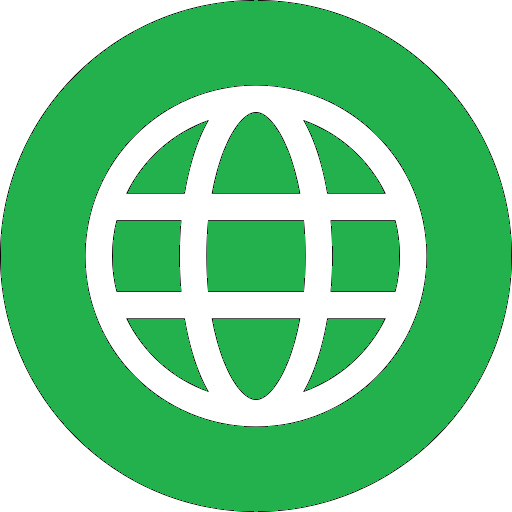
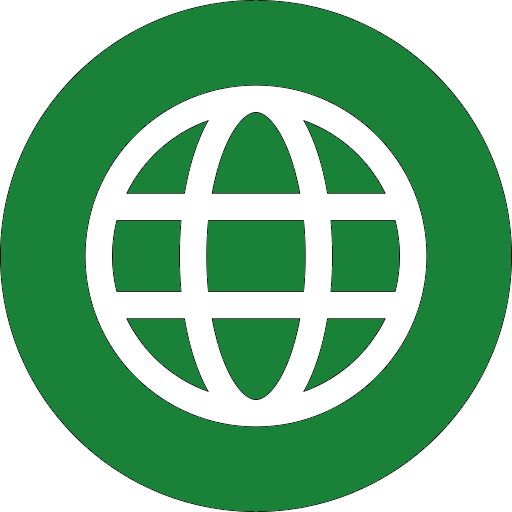
Issue #6: Create testimonials component

diff --git a/src/pages/Contact.vue b/src/pages/Contact.vue
@@ -1,35 +1,42 @@
 <template>
     <MiniBanner title="GET IN CONTACT" />
-    <div class="flex flex-row py-20 px-80 gap-40">
-        <div>
-            <h2 class="font-semibold text-3xl">Get In Touch</h2>
-            <form class="flex flex-col gap-5">
-                <div class="flex flex-row gap-10">
-                    <div class="flex flex-col">
+    <div class="flex flex-row flex-wrap py-20 justify-left sm:justify-center gap-10">
+        <div class="flex flex-col">
+            <h2 class="font-semibold text-2xl px-2">Get In Touch</h2>
+            <form class="flex flex-col flex-wrap gap-5 px-2">
+                <div class="flex flex-row flex-wrap sm:gap-10">
+                    <div class="flex flex-col grow">
                         <label class="font-thin py-3">First name</label>
-                        <input type="text" placeholder="Your first name" class="border-2 rounded-md p-4"></input>
+                        <input type="text" placeholder="Your first name"
+                            class="border-2 border-green-700 rounded-md p-4"></input>
                     </div>
-                    <div class="flex flex-col">
+                    <div class="flex flex-col grow">
                         <label class="font-thin py-3">Last name</label>
-                        <input type="text" placeholder="Your last name" class="border-2 rounded-md p-4"></input>
+                        <input type="text" placeholder="Your last name"
+                            class="border-2 border-green-700 rounded-md p-4"></input>
                     </div>
                 </div>
-                <div class="flex flex-col">
+                <div class="flex flex-col flex-wrap">
                     <label class="font-thin py-3">Email</label>
-                    <input type="email" placeholder="Your email address" class="border-2 rounded-md p-4"></input>
+                    <input type="email" placeholder="Your email address"
+                        class="border-2 border-green-700 rounded-md p-4"></input>
                 </div>
-                <div class="flex flex-col">
+                <div class="flex flex-col flex-wrap">
                     <label class="font-thin py-3">Subject</label>
-                    <input type="text" placeholder="Your subject of this message" class="border-2 rounded-md p-4"></input>
+                    <input type="text" placeholder="Your subject of this message"
+                        class="border-2 border-green-700 rounded-md p-4"></input>
                 </div>
-                <div class="flex flex-col">
+                <div class="flex flex-col flex-wrap">
                     <label class="font-thin py-3">Message</label>
-                    <textarea type="text" placeholder="Write us something" class="border-2 rounded-md p-4" cols="30" rows="10"></textarea>
+                    <textarea type="text" placeholder="Write us something"
+                        class="border-2 border-green-700 rounded-md p-4" cols="30" rows="10"></textarea>
                 </div>
-                <button type="submit" class=" bg-green-600 text-white rounded-md p-3 cursor-pointer w-40"> Send Message </button>
+                <button type="submit" class=" bg-green-600 text-white rounded-md p-3 cursor-pointer w-40">
+                    Send Message
+                </button>
             </form>
         </div>
-        <div class="flex flex-col gap-20">
+        <div class="flex flex-col gap-20 px-2">
             <div class="flex flex-col">
                 <h3 class="font-semibold text-2xl"> USA Office </h3>
                 <ul>
@@ -78,7 +85,6 @@
 
 <script setup lang="ts">
 import MiniBanner from '../components/sections/layout/MiniBanner.vue';
-
 </script>
 
 <style scoped></style>

diff --git a/src/components/sections/home/Testimonials.vue b/src/components/sections/home/Testimonials.vue
@@ -1,0 +1,67 @@
+<template>
+    <div class="bg-gray-200 items-center py-10">
+        <div class="font-bold text-3xl text-center py-5"> Testimonial </div>
+        <v-carousel :show-arrows="false" class="testimony-carousel">
+            <v-carousel-item v-for="(testimonial, i) in testimonials" :key="i">
+                <div class="flex flex-col items-center">
+                    <div class="py-10"></div>
+                    <img :src="testimonial.icon" class="rounded-full" width="80"></img>
+                    <div class="font-bold text-gray-700 text-center">
+                        {{ testimonial.source }}
+                        <a :href="testimonial.sourceLink" class="text-green-700 hover:underline text-center">
+                            {{ testimonial.sourceName }} </a>
+                    </div>
+                    <div class="text-center max-w-sm font-thin py-10"> "{{ testimonial.text }}" </div>
+                </div>
+            </v-carousel-item>
+        </v-carousel>
+    </div>
+</template>
+
+<script setup lang="ts">
+const testimonials = [
+    {
+        icon: "/src/assets/person_1.jpg",
+        source: "JEAN DOE, VIA",
+        sourceName: "TWITTER",
+        sourceLink: "http://x.com",
+        text: "Far far away, behind the word mountains, far from the countries Vokalia and Consonantia, there live the blind texts. Separated they live in Bookmarksgrove right at the coast of the Semantics, a large language ocean."
+    },
+    {
+        icon: "/src/assets/person_2.jpg",
+        source: "JOHN DOE, VIA",
+        sourceName: "TWITTER",
+        sourceLink: "http://x.com",
+        text: "Separated they live in Bookmarksgrove right at the coast of the Semantics, a large language ocean."
+    },
+    {
+        icon: "/src/assets/person_3.jpg",
+        source: "JOHN DOE, VIA",
+        sourceName: "TWITTER",
+        sourceLink: "http://x.com",
+        text: "Far from the countries Vokalia and Consonantia, there live the blind texts. Separated they live in Bookmarksgrove right at the coast of the Semantics, a large language ocean."
+    }
+]
+</script>
+
+<style scoped>
+.testimony-carousel :deep(.v-btn--variant-text .v-btn__overlay) {
+    background: transparent;
+}
+
+.testimony-carousel :deep(.v-btn--active) {
+    color: #097749 !important;
+}
+
+.testimony-carousel :deep(.v-carousel__controls) {
+    background: transparent;
+}
+
+.testimony-carousel :deep(.v-carousel__controls__item .v-icon) {
+    opacity: 1;
+}
+
+.testimony-carousel :deep(.v-btn--icon) {
+    color: rgb(95, 95, 95);
+}
+</style>

diff --git a/src/components/sections/layout/Navbar.vue b/src/components/sections/layout/Navbar.vue
@@ -3,7 +3,7 @@
         <a class="text-xl text-white font-bold" href="/"> GREATNESS. </a>
 
         <!-- Lista de items em telas grandes -->
-        <ul id="navbar_right" class="flex flex-row gap-10 text-white">
+        <ul id="navbar_right" class="hidden md:flex flex-row gap-10 text-white">
             <li v-for="link in links">
                 <!-- Se link é o atual, deixa com opacidade normal -->
                 <div v-if="link.link == active">
@@ -45,7 +45,7 @@
         </ul>
 
         <!-- Menu hamburguer em telas pequenas controlado por uma var reativa -->
-        <div v-show="hamburguerState" id="ham_menu" class="hover:cursor-pointer" @click="showSidebar">
+        <div v-show="hamburguerState" id="ham_menu" class="block md:hidden hover:cursor-pointer" @click="showSidebar">
             <img src="/src/assets/hamburger.png" class="w-8">
         </div>
 
@@ -55,7 +55,7 @@
 
         <!-- Sidebar ao clicar no hamburguer guiada por uma var reativa -->
         <transition name="slide">
-            <div v-show="sidebarState" id="sidebar"
+            <div v-if="sidebarState" id="sidebar"
                 class="flex flex-col items-end px-8 py-5 bg-black fixed right-0 top-0 h-full w-60 z-1"
                 @click="showHamburguer">
 
@@ -70,7 +70,7 @@
 
                             <!-- Sublink list -->
                             <transition name="dropdown">
-                                <ul v-show="link.sublinks && itemSelected == link.name" class="px-5">
+                                <ul v-if="link.sublinks && itemSelected == link.name" class="px-5">
                                     <li v-for="subl in link.sublinks">
                                         <a :href="subl.sublink"
                                             class="opacity-40 hover:opacity-100 transition-opacity duration-500">
@@ -204,23 +204,5 @@ function showHamburguer() {
     max-height: 500px;
     /* valor alto suficiente para o conteúdo */
     opacity: 1;
-}
-
-@media screen and (min-width: 0px) and (max-width:800px) {
-    #navbar_right {
-        display: none;
-    }
-}
-
-@media screen and (min-width: 800px) and (max-width:1920px) {
-    #ham_menu {
-        display: none;
-    }
-}
-
-@media screen and (min-width: 800px) and (max-width:1920px) {
-    #sidebar {
-        display: none;
-    }
 }
 </style>

diff --git a/src/components/sections/home/Banner.vue b/src/components/sections/home/Banner.vue
@@ -1,10 +1,13 @@
 <template>
     <div class="banner flex flex-col items-center py-70 gap-5 h-200 w-full">
-        <div class="text-white text-7xl font-thin"> GREATNESS TEMPLATE </div>
+        <div class="text-white text-5xl md:text-7xl font-thin text-center wrap-anywhere"> GREATNESS TEMPLATE </div>
         <div class="text-white text-2xl font-thin"> MADE BY gstv0 </div>
         <div class="flex flex-row gap-10">
-            <button class="bg-green-600 hover:cursor-pointer rounded-md p-5 text-white hover:brightness-125"> Get Started </button>
-            <button class="text-white rounded-md border-1 border-white p-5 hover:cursor-pointer hover:bg-white hover:text-black transition-colors duration-300 "> Download </button>
+            <button class="bg-green-600 hover:cursor-pointer rounded-md p-5 text-white hover:brightness-125"> Get
+                Started </button>
+            <button
+                class="text-white rounded-md border-1 border-white p-5 hover:cursor-pointer hover:bg-white hover:text-black transition-colors duration-300 ">
+                Download </button>
         </div>
     </div>
 </template>

diff --git a/src/components/sections/layout/Footer.vue b/src/components/sections/layout/Footer.vue
@@ -1,12 +1,12 @@
 <template>
     <footer class="flex flex-col flex-wrap gap-20 py-20 items-center ml-15 -mr-1.5">
-        <div class="w-full max-w-6xl flex flex-row flex-wrap sm:gap-35 gap-x-35 gap-y-10">
+        <div class="w-full max-w-6xl grid grid-cols-2 sm:grid-cols-3 md:grid-cols-6 sm:gap-35 gap-y-10">
             <div v-for="(column, index) in links" :key="index" class="flex flex-col gap-2 sm:w-auto sm:items-start">
                 <a v-for="(link, subindex) in column" :key="subindex" :href="link.link" class="hover:underline">
                     {{ link.name }} </a>
             </div>
         </div>
-        <div class=" w-full max-w-6xl grid grid-cols-1 sm:grid-cols-2 gap-4">
+        <div class=" w-full max-w-6xl grid grid-cols-1 sm:grid-cols-2 gap-4 -ml-15 sm:ml-0">
             <div class="font-thin text-gray-600 md:text-left text-center">
                 © 2016 Free HTML5. All Rights Reserved. <br>
                 Designed by
@@ -29,6 +29,7 @@
                 </a>
             </div>
         </div>
+        <div class="py-5"></div>
     </footer>
 </template>
 

diff --git a/src/main.ts b/src/main.ts
@@ -1,12 +1,35 @@
-import { createApp } from 'vue'
-import App from './App.vue'
-import router from './router'
-import { createPinia } from 'pinia'
-import './style.css'
+import { createApp } from "vue";
+import App from "./App.vue";
+import router from "./router";
+import { createPinia } from "pinia";
 
-const app = createApp(App)
+// Vuetify
+import "vuetify/styles";
+import { createVuetify } from "vuetify";
+import * as components from "vuetify/components";
+import * as directives from "vuetify/directives";
 
-app.use(router)
-app.use(createPinia())
+// Opcional: ícones (se quiser usar Material Design Icons)
+import { aliases, mdi } from "vuetify/iconsets/mdi";
+import "@mdi/font/css/materialdesignicons.css";
 
-app.mount('#app')
+// Tailwind
+import "./style.css";
+
+const vuetify = createVuetify({
+  components,
+  directives,
+  icons: {
+    defaultSet: "mdi",
+    aliases,
+    sets: { mdi },
+  },
+});
+
+const app = createApp(App);
+
+app.use(vuetify);
+app.use(router);
+app.use(createPinia());
+
+app.mount("#app");

diff --git a/src/components/sections/layout/MiniBanner.vue b/src/components/sections/layout/MiniBanner.vue
@@ -1,11 +1,11 @@
 <template>
     <div class="banner flex flex-col items-center py-70 gap-5 h-100 w-full">
-        <div class="text-white text-7xl font-thin"> {{ props.title }} </div>
+        <div class="text-white text-7xl font-thin text-center"> {{ props.title }} </div>
     </div>
 </template>
 
 <script setup lang="ts">
-    const props = defineProps(['title'])
+const props = defineProps(['title'])
 </script>
 
 <style scoped>

diff --git a/src/components/sections/layout/BackToTopBtn.vue b/src/components/sections/layout/BackToTopBtn.vue
@@ -1,6 +1,6 @@
 <template>
     <div>
-        <img src="/src/assets/up-arrow-button.png" class="w-15 fixed cursor-pointer right-10 bottom-10" @click="goToTop"
+        <img src="/src/assets/up-arrow-button.png" class="w-12 fixed cursor-pointer right-5 bottom-5" @click="goToTop"
             v-show="showButton">
     </div>
 </template>

diff --git a/src/pages/Home.vue b/src/pages/Home.vue
@@ -1,9 +1,11 @@
 <template>
   <Banner />
   <Gallery />
+  <Testimonials />
 </template>
 
 <script setup lang="ts">
 import Banner from '../components/sections/home/Banner.vue';
 import Gallery from '../components/sections/home/Gallery.vue';
+import Testimonials from '../components/sections/home/Testimonials.vue';
 </script>

diff --git a/src/style.css b/src/style.css
@@ -1,5 +1,7 @@
 @import "tailwindcss";
 
+@config "../tailwind.config.js";
+
 * {
   font-family: Inter, system-ui, Avenir, Helvetica, Arial, sans-serif;
 }

diff --git a/tailwind.config.js b/tailwind.config.js
@@ -1,0 +1,3 @@
+module.exports = {
+  important: true, // força !important em todas as classes do Tailwind
+}
